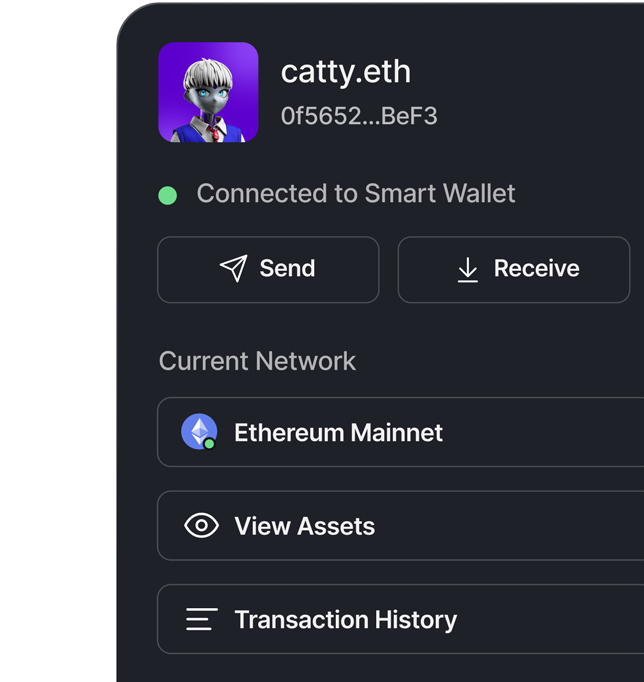
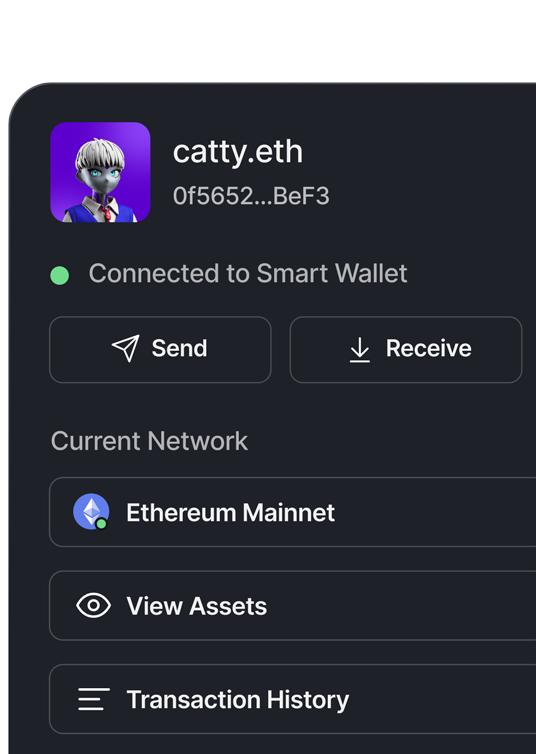
Fix vertical image

diff --git a/components/landing-pages/card-with-image.tsx b/components/landing-pages/card-with-image.tsx
@@ -47,7 +47,15 @@ export const LandingCardWithImage: React.FC<LandingCardWithImageProps> = ({
           justifyContent="space-between"
           alignItems="end"
         >
-          <Flex gap={4} p={10} flexDir="column" alignSelf="start">
+          <Flex
+            gap={4}
+            px={10}
+            pt={10}
+            flexDir="column"
+            alignSelf="start"
+            minW="200px"
+            h="full"
+          >
             <Text size="body.xl" color="white" fontWeight="bold">
               <TrackedLink
                 as={LinkOverlay}
@@ -67,7 +75,11 @@ export const LandingCardWithImage: React.FC<LandingCardWithImageProps> = ({
             </Text>
             {description && <Text size="body.lg">{description}</Text>}
           </Flex>
-          <LandingDesktopMobileImage image={image} mobileImage={mobileImage} />
+          <LandingDesktopMobileImage
+            image={image}
+            mobileImage={mobileImage}
+            w={{ base: "100%", md: direction === "vertical" ? "100%" : "50%" }}
+          />
         </Card>
       </LinkBox>
     </GridItem>

diff --git a/components/landing-pages/desktop-mobile-image.tsx b/components/landing-pages/desktop-mobile-image.tsx
@@ -3,7 +3,7 @@ import { ChakraNextImage } from "components/Image";
 
 export const LandingDesktopMobileImage: React.FC<
   LandingDesktopMobileImageProps
-> = ({ image, mobileImage }) => {
+  > = ({ image, mobileImage, ...props }) => {
   return (
     <>
       {mobileImage && (
@@ -11,6 +11,7 @@ export const LandingDesktopMobileImage: React.FC<
           src={mobileImage}
           alt=""
           display={{ base: "block", md: "none" }}
+          {...props}
         />
       )}
       {image && (
@@ -18,6 +19,7 @@ export const LandingDesktopMobileImage: React.FC<
           src={image}
           alt=""
           display={{ base: mobileImage ? "none" : "block", md: "block" }}
+          {...props}
         />
       )}
     </>

diff --git a/components/landing-pages/types.tsx b/components/landing-pages/types.tsx
@@ -1,3 +1,4 @@
+import { ChakraNextImageProps } from "components/Image";
 import { StaticImageData } from "next/image";
 
 export type Guide = {
@@ -7,10 +8,10 @@ export type Guide = {
   link: string;
 };
 
-export interface LandingDesktopMobileImageProps {
+export type LandingCardWithImageProps = ChakraNextImageProps & {
   image?: StaticImageData;
   mobileImage?: StaticImageData;
-}
+};
 
 export interface LandingSectionHeadingProps {
   blackToWhiteTitle: string;
